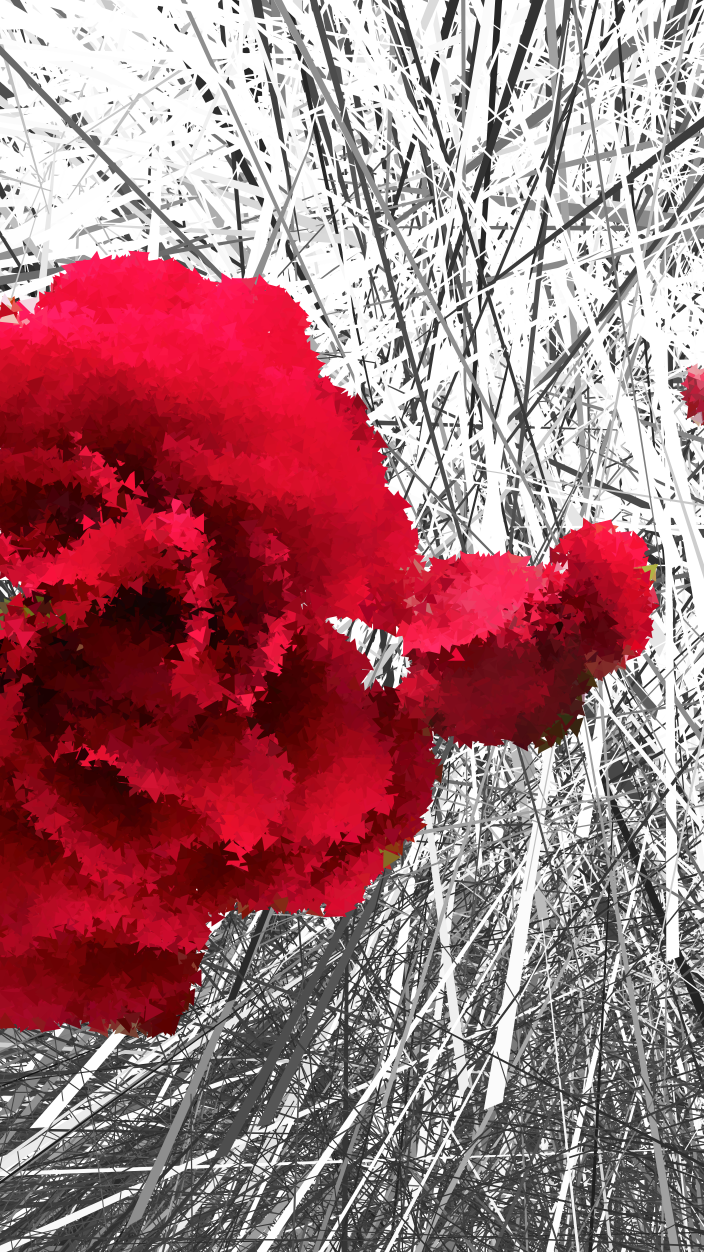
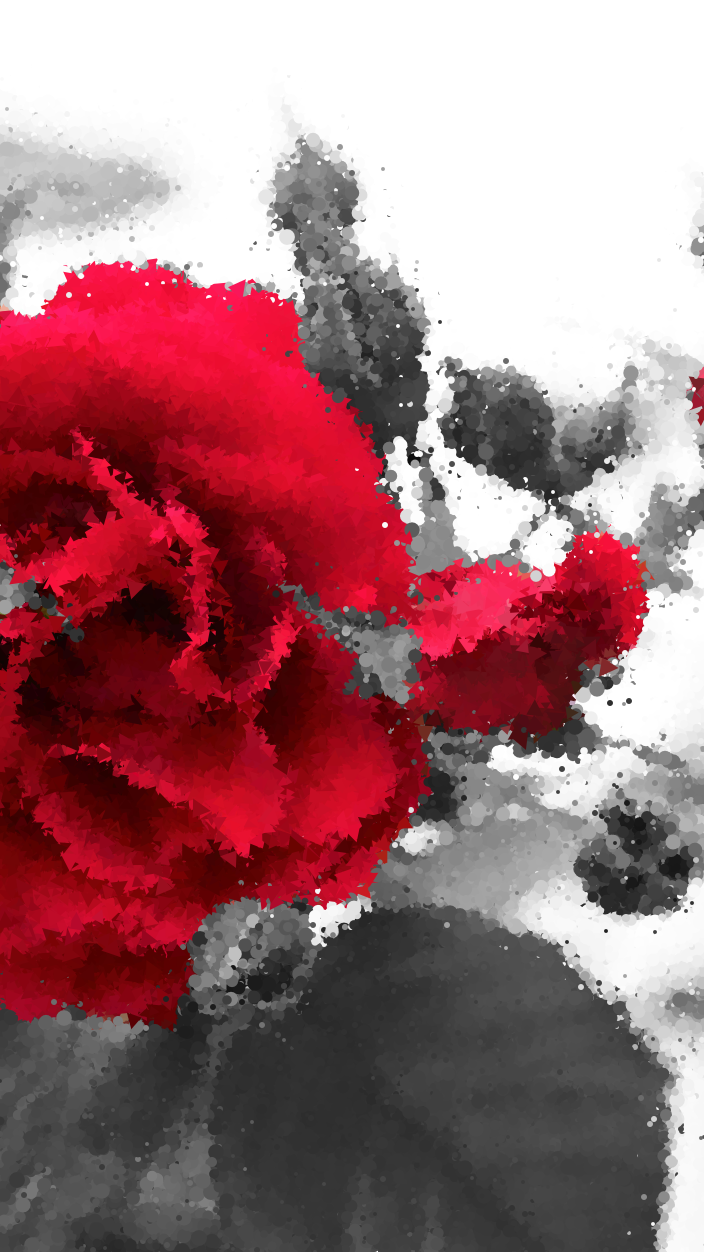
stuff

diff --git a/sketch.js b/sketch.js
@@ -30,81 +30,57 @@ function draw () {
     let y = floor(random(sourceImg.height));
     let pix = sourceImg.get(x, y);
     let mask = maskImg.get(x, y);
-    let pointSize = random(1,15);
+    let pointSize = random(4,15);
     let halfSize = 50;
+    let dist = [0,0,0,0,0,0,0,0,0,0,0,0,0,20,-20];
+    let dist1 = [0,0,0,0,0,0,0,0,0,0,0,0,0,,0,0,0,0,0,0,0,0,0,0,0,40,-40];
+
     
     let grayscale = (pix[0]+pix[1]+pix[2])/3
     fill(grayscale);
     stroke(grayscale)
+
     if(mask[0] > 128) {
       //line(x, y, x+pix[2]/100, pix[1]/100);
       //print(pix);
       //triangle(x, y, x+pointSize, y+(pointSize*(2/3)), x+pointSize, y-(pointSize*(2/3)));
-      //ellipse(x, y, pointSize, pointSize);  
-      let pointSizeTri = random(3,15); 
-      push();
-      translate(x,y);
-      rotate(random(1,360))
-      triangle(0, 0, x+pointSizeTri, y+(pointSizeTri*(2/3)), x+pointSizeTri, y-(pointSizeTri*(2/3)));    
-      pop();  
+      let outliersx = random(dist)
+      let outliersy = random(dist)
+
+      let outliersx1 = random(dist1)
+      let outliersy1 = random(dist1)
+
+      if(outliersx == 20 || outliersy == 20 || outliersx == -20 || outliersy == -20){
+        let pointSize = 5
+        ellipse(x+outliersx, y+outliersy, pointSize, pointSize); 
+      }
+      if(outliersx1 == 40 || outliersy1 == 40 || outliersx1 == -40 || outliersy1 == -40){
+        let pointSize = 3
+        ellipse(x+outliersx1, y+outliersy1, pointSize, pointSize); 
+      }
+      //print(outliersx,outliersy)
+      ellipse(x, y, pointSize, pointSize);   
+      //ellipse(x+outliersx, y+outliersy, pointSize, pointSize);
     }
     else {
 
       fill(pix)
       stroke(pix)
       let pointSizeTri = random(3,15);
+      let shift = -pointSizeTri/3
       push();
       translate(x,y);
       rotate(random(1,360))
-      triangle(0, 0, 0+pointSizeTri, 0+(pointSizeTri*(2/3)), 0+pointSizeTri, 0-(pointSizeTri*(2/3)));    
+      triangle(shift, shift, shift+pointSizeTri, shift+(pointSizeTri*(2/3)), shift+pointSizeTri, shift-(pointSizeTri*(2/3)));    
       pop();  
     }
   }
-if(renderCounter >= 9){
-    for(let i=0;i<130000;i++) {
-    let x = floor(random(sourceImg.width));
-    let y = floor(random(sourceImg.height));
-    let pix = sourceImg.get(x, y);
-    let mask = maskImg.get(x, y);
-    let pointSize = random(1,15);
-    let halfSize = 50;
-    
-    let grayscale = (pix[0]+pix[1]+pix[2])/3
-    fill(grayscale);
-    stroke(grayscale)
-    if(mask[0] > 128) {
-      //line(x, y, x+pix[2]/100, pix[1]/100);
-      //print(pix);
-      //triangle(x, y, x+pointSize, y+(pointSize*(2/3)), x+pointSize, y-(pointSize*(2/3)));
-      //ellipse(x, y, pointSize, pointSize);  
-      let pointSizeTri = random(3,15); 
-      push();
-      translate(x,y);
-      rotate(random(1,360))
-      //triangle(0, 0, x+pointSizeTri, y+(pointSizeTri*(2/3)), x+pointSizeTri, y-(pointSizeTri*(2/3)));    
-      pop();  
-    }
-    else {
-
-      fill(pix)
-      stroke(pix)
-      let pointSizeTri = random(3,15);
-      push();
-      translate(x,y);
-      rotate(random(1,360))
-      triangle(0, 0, 0+pointSizeTri, 0+(pointSizeTri*(2/3)), 0+pointSizeTri, 0-(pointSizeTri*(2/3)));    
-      pop();  
-    }
-  }
-}
-
-
   renderCounter = renderCounter + 1;
   if(renderCounter > 10) {
     console.log("Done!")
     noLoop();
     // uncomment this to save the result
-   saveArtworkImage(outputFile);
+    saveArtworkImage(outputFile);
   }
 }
 
